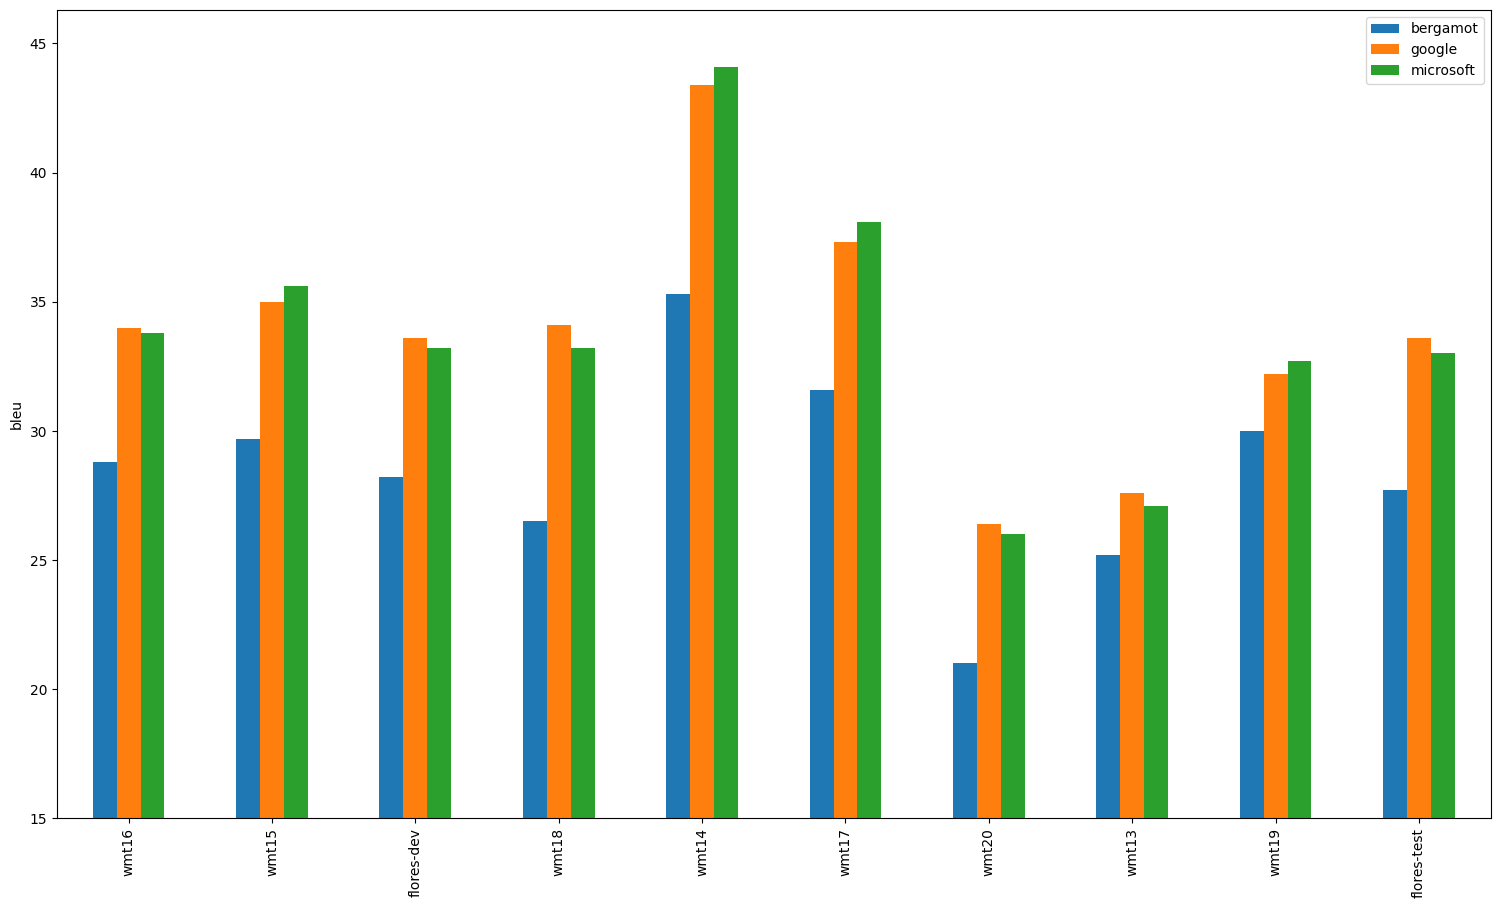
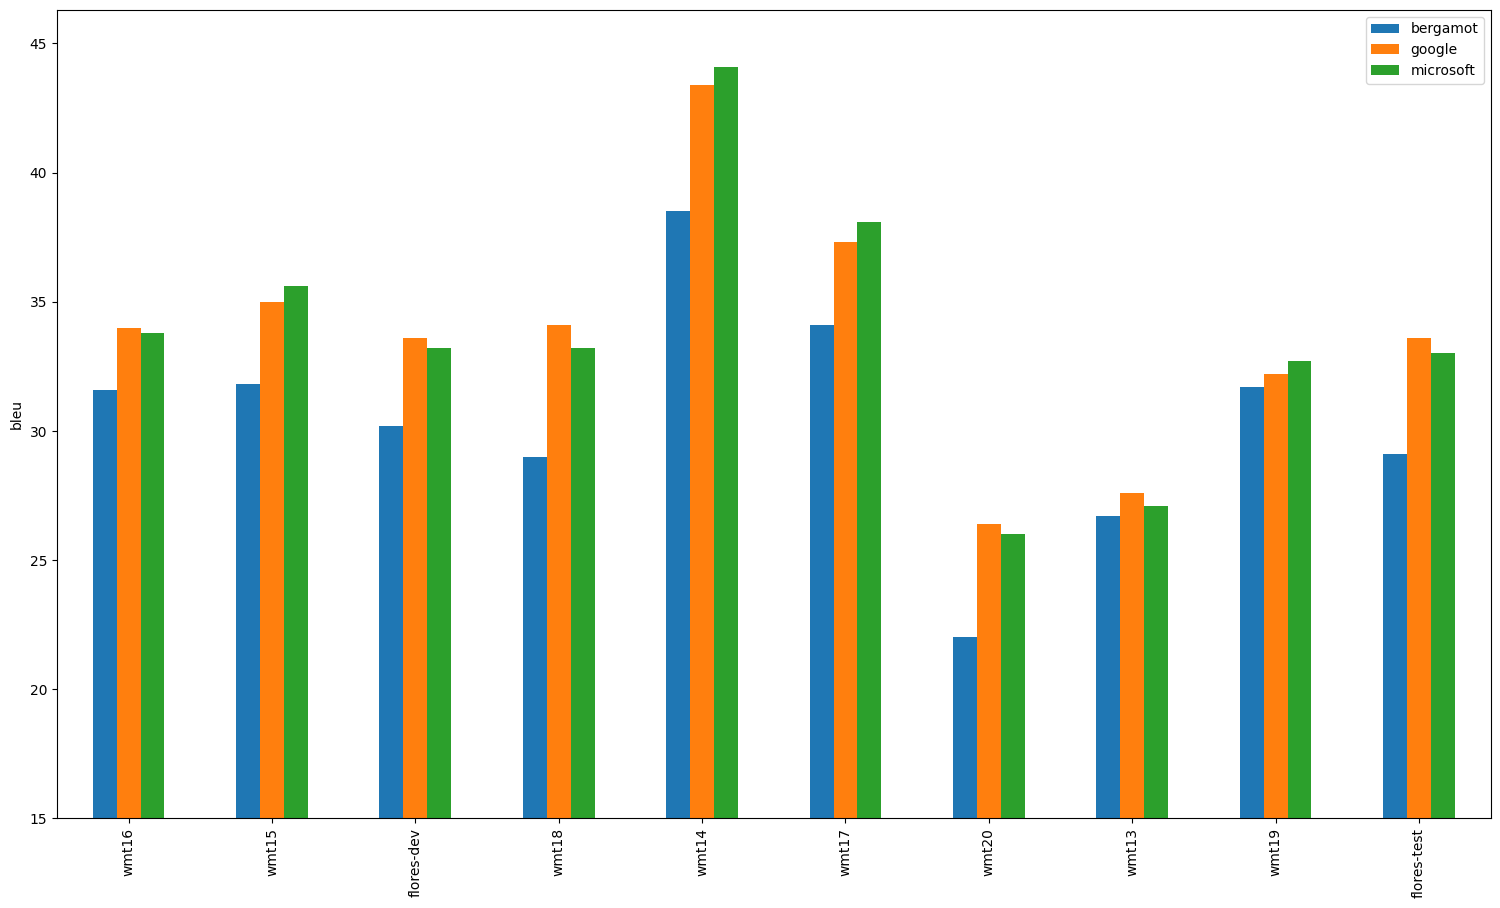
Update evaluation results [skip ci]

diff --git a/evaluation/dev/results.md b/evaluation/dev/results.md
@@ -59,9 +59,9 @@ Both absolute and relative differences in BLEU scores between Bergamot and other
 
 | Translator/Dataset | en-it | en-pt | ru-en | en-ru | it-en | pt-en |
 | --- | --- | --- | --- | --- | --- | --- |
-| bergamot | 29.53 | 46.55 | 33.37 | 28.40 | 32.30 | 43.43 |
-| google | 29.47 (-0.07, -0.23%) | 56.05 (+9.50, +20.41%) | 36.53 (+3.15, +9.45%) | 33.72 (+5.32, +18.73%) | 34.50 (+2.20, +6.81%) | 45.77 (+2.33, +5.37%) |
-| microsoft | 32.20 (+2.67, +9.03%) | 50.25 (+3.70, +7.95%) | 36.87 (+3.50, +10.49%) | 33.68 (+5.28, +18.59%) | 34.55 (+2.25, +6.97%) | 46.43 (+3.00, +6.91%) |
+| bergamot | 29.53 | 46.55 | 33.37 | 30.47 | 32.30 | 43.43 |
+| google | 29.47 (-0.07, -0.23%) | 56.05 (+9.50, +20.41%) | 36.53 (+3.15, +9.45%) | 33.72 (+3.25, +10.67%) | 34.50 (+2.20, +6.81%) | 45.77 (+2.33, +5.37%) |
+| microsoft | 32.20 (+2.67, +9.03%) | 50.25 (+3.70, +7.95%) | 36.87 (+3.50, +10.49%) | 33.68 (+3.21, +10.53%) | 34.55 (+2.25, +6.97%) | 46.43 (+3.00, +6.91%) |
 
 ![Results](img/avg.png)
 
@@ -99,9 +99,9 @@ Both absolute and relative differences in BLEU scores between Bergamot and other
 
 | Translator/Dataset | wmt16 | wmt15 | flores-dev | wmt18 | wmt14 | wmt17 | wmt20 | wmt13 | wmt19 | flores-test |
 | --- | --- | --- | --- | --- | --- | --- | --- | --- | --- | --- |
-| bergamot | 28.80 | 29.70 | 28.20 | 26.50 | 35.30 | 31.60 | 21.00 | 25.20 | 30.00 | 27.70 |
-| google | 34.00 (+5.20, +18.06%) | 35.00 (+5.30, +17.85%) | 33.60 (+5.40, +19.15%) | 34.10 (+7.60, +28.68%) | 43.40 (+8.10, +22.95%) | 37.30 (+5.70, +18.04%) | 26.40 (+5.40, +25.71%) | 27.60 (+2.40, +9.52%) | 32.20 (+2.20, +7.33%) | 33.60 (+5.90, +21.30%) |
-| microsoft | 33.80 (+5.00, +17.36%) | 35.60 (+5.90, +19.87%) | 33.20 (+5.00, +17.73%) | 33.20 (+6.70, +25.28%) | 44.10 (+8.80, +24.93%) | 38.10 (+6.50, +20.57%) | 26.00 (+5.00, +23.81%) | 27.10 (+1.90, +7.54%) | 32.70 (+2.70, +9.00%) | 33.00 (+5.30, +19.13%) |
+| bergamot | 31.60 | 31.80 | 30.20 | 29.00 | 38.50 | 34.10 | 22.00 | 26.70 | 31.70 | 29.10 |
+| google | 34.00 (+2.40, +7.59%) | 35.00 (+3.20, +10.06%) | 33.60 (+3.40, +11.26%) | 34.10 (+5.10, +17.59%) | 43.40 (+4.90, +12.73%) | 37.30 (+3.20, +9.38%) | 26.40 (+4.40, +20.00%) | 27.60 (+0.90, +3.37%) | 32.20 (+0.50, +1.58%) | 33.60 (+4.50, +15.46%) |
+| microsoft | 33.80 (+2.20, +6.96%) | 35.60 (+3.80, +11.95%) | 33.20 (+3.00, +9.93%) | 33.20 (+4.20, +14.48%) | 44.10 (+5.60, +14.55%) | 38.10 (+4.00, +11.73%) | 26.00 (+4.00, +18.18%) | 27.10 (+0.40, +1.50%) | 32.70 (+1.00, +3.15%) | 33.00 (+3.90, +13.40%) |
 
 ![Results](img/en-ru.png)
 
